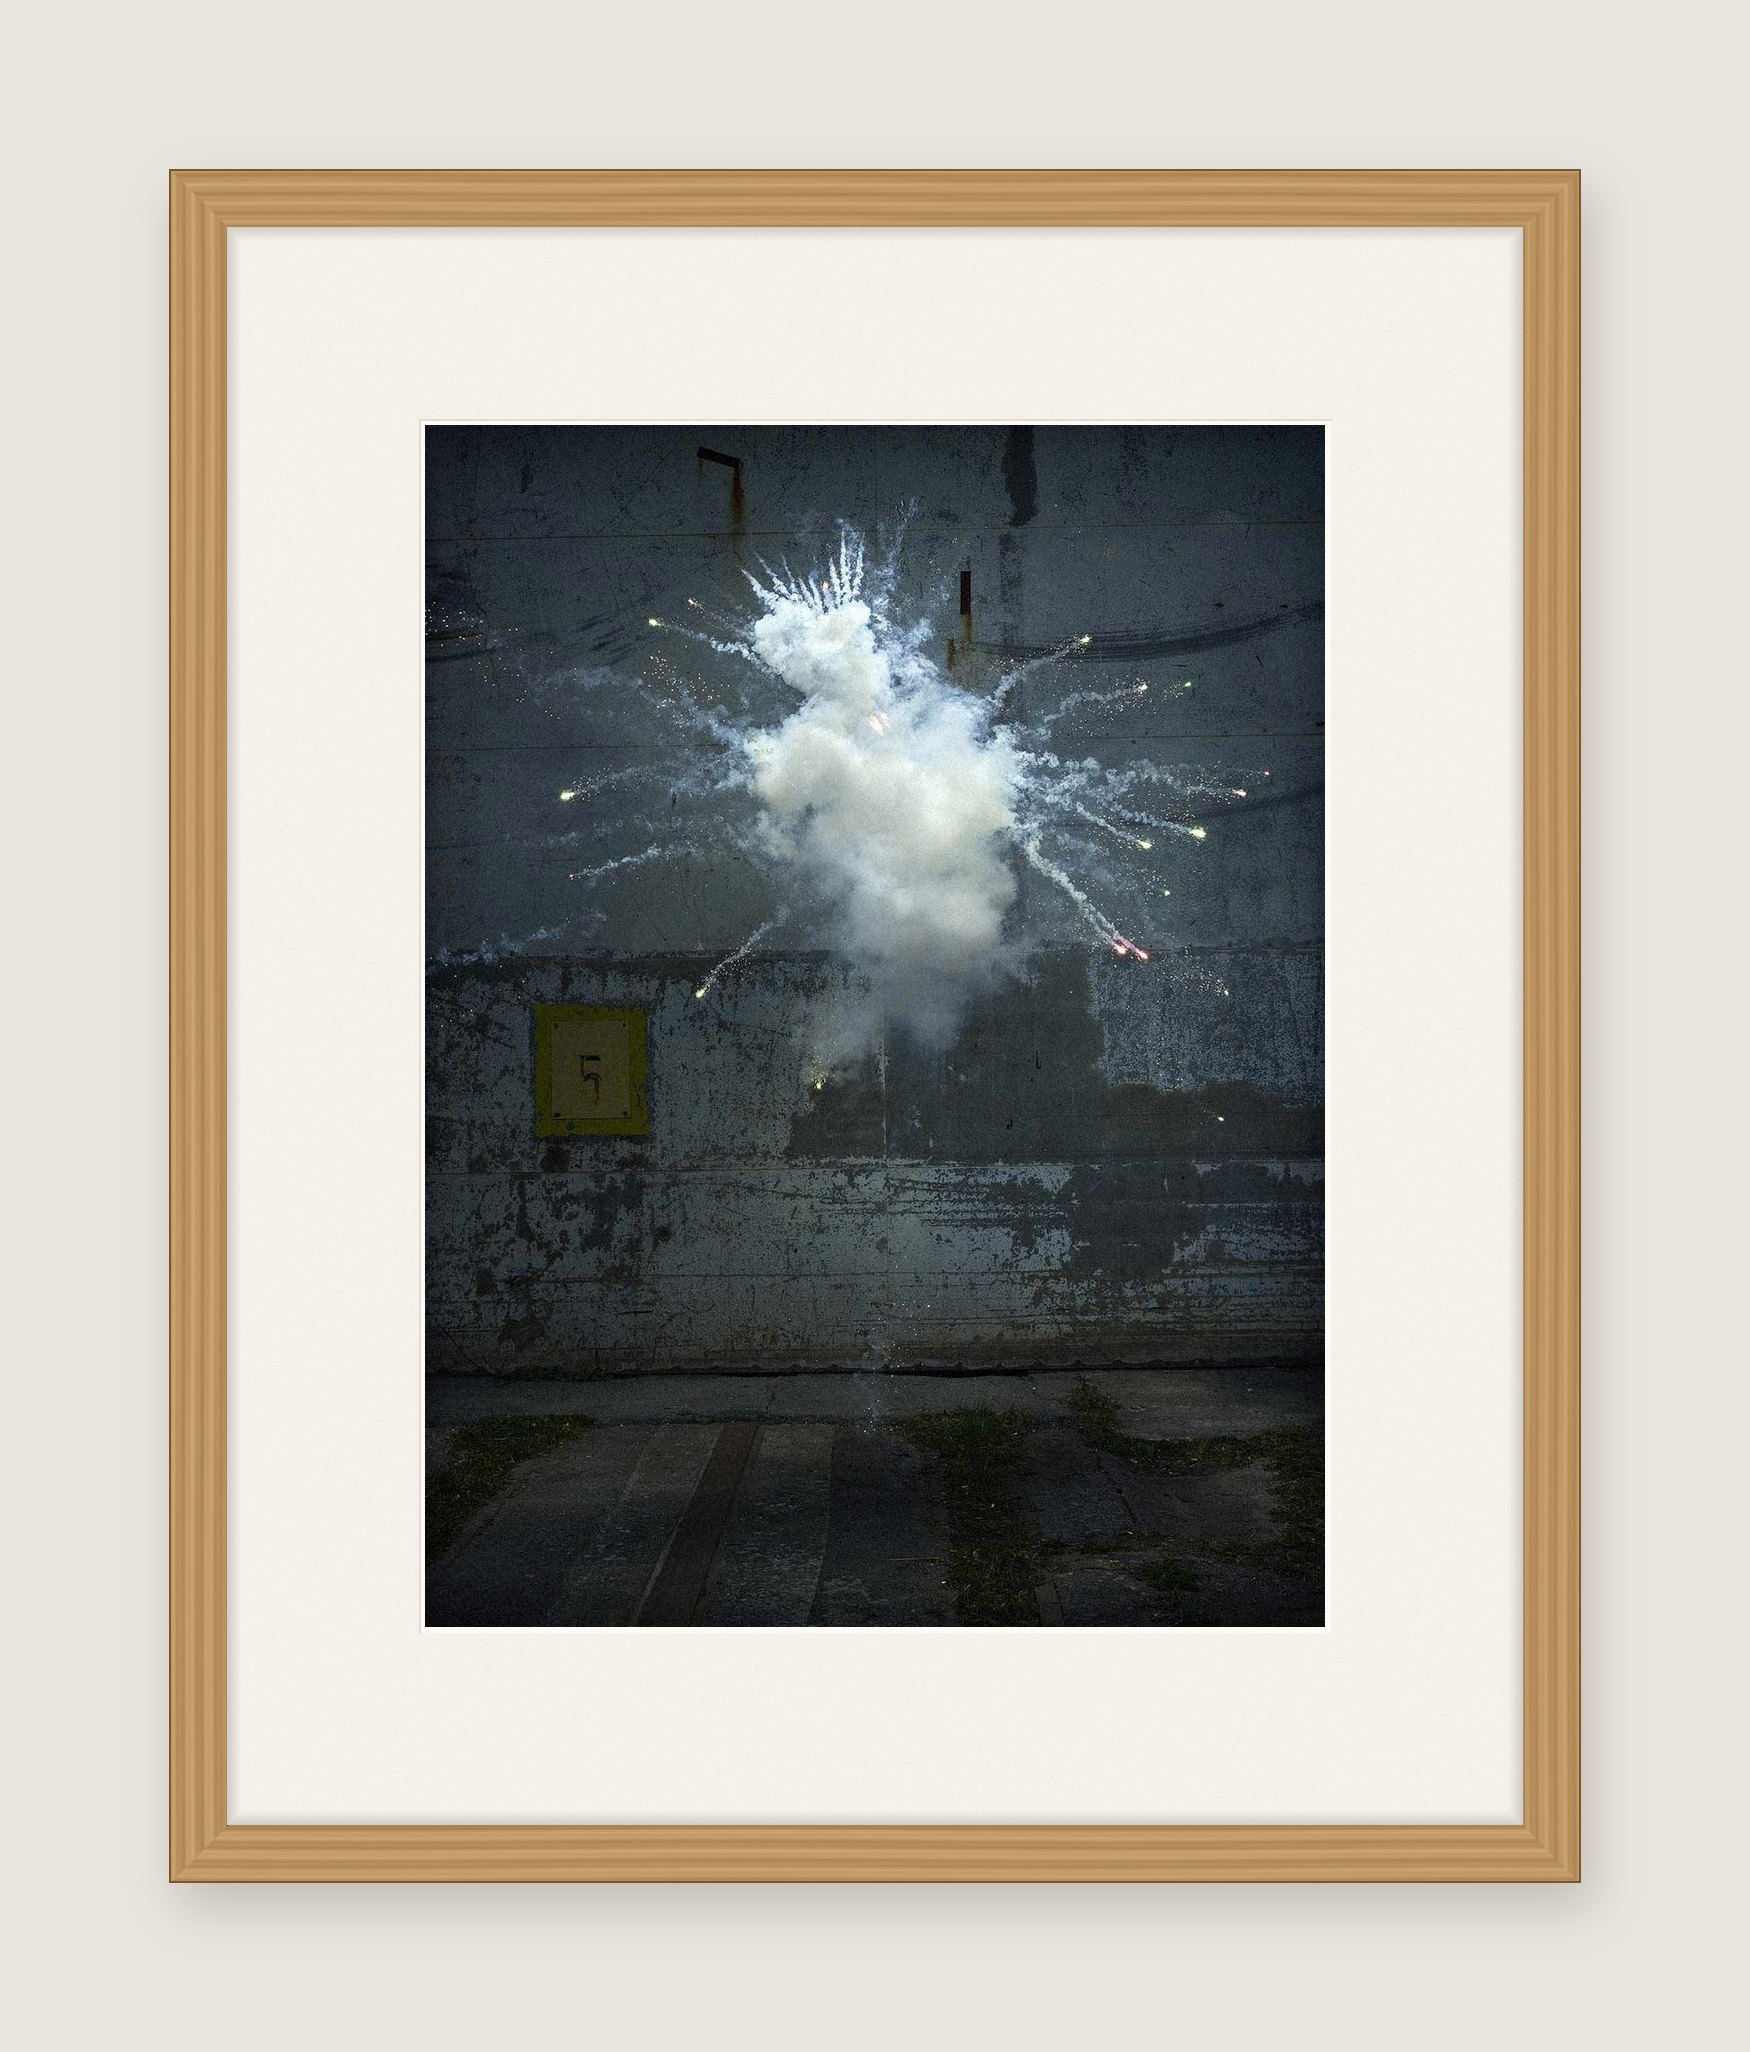
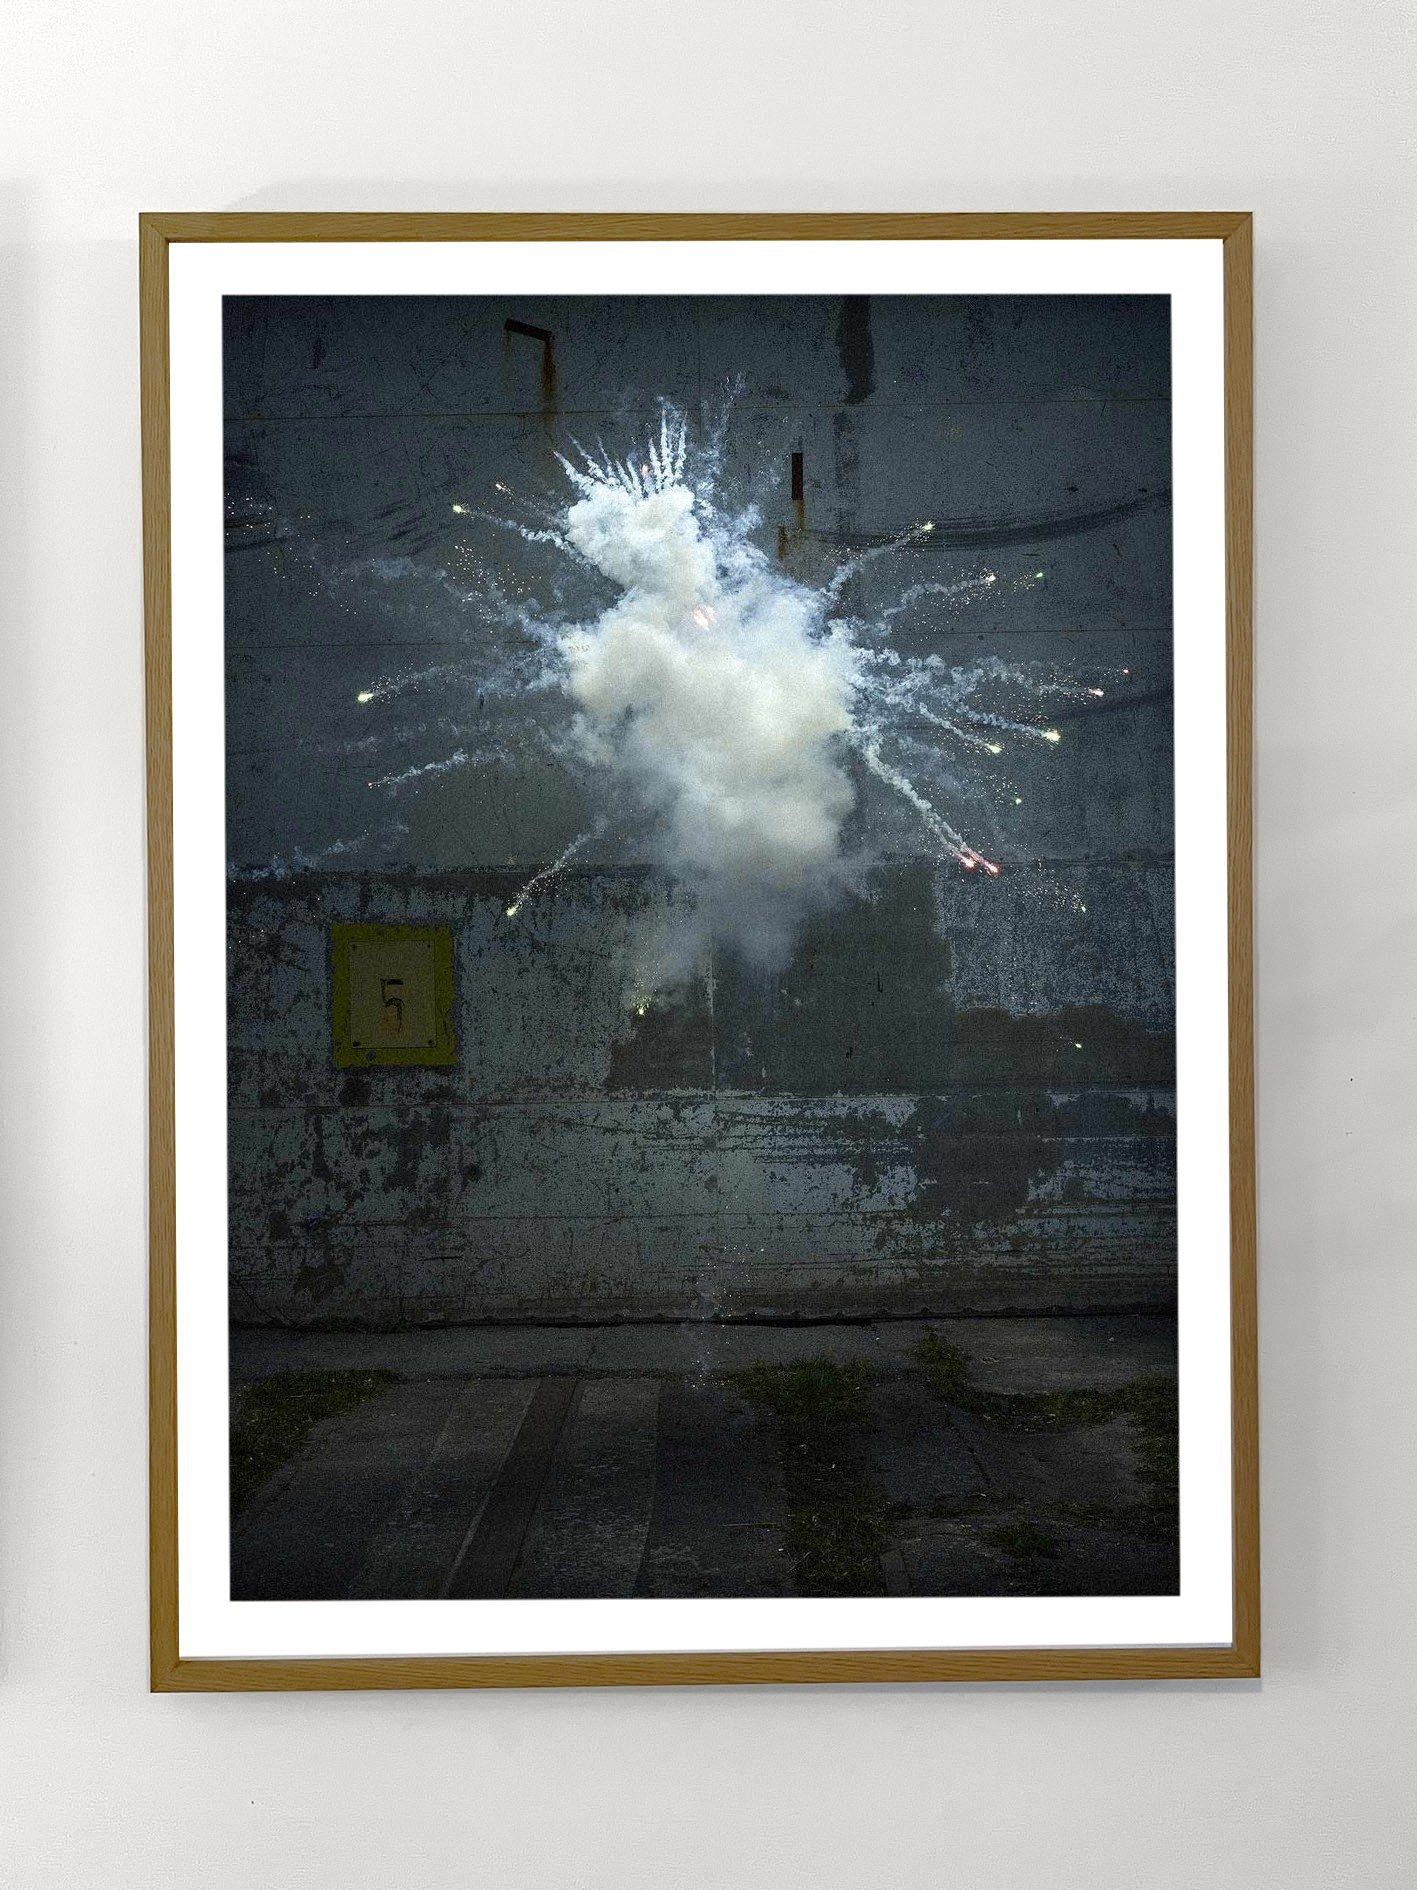
Explosions: real oak frame photo, wall in site frame colour
Claude-Session: https://claude.ai/code/session_011X1zMj85poAPRbW2kCn6k3

diff --git a/public/index.html b/public/index.html
@@ -968,8 +968,8 @@ const prints=[[0,0,[50,10,5]],[0,2,[50,10,5]],[0,3,[50,10,5]],[0,5,[50,10,5]],[0
     return{id:`${pi}-${i}`,pi,title:PRINT_NAMES[`${pi}-${i}`]||`${p.title} No. ${i+1}`,series:p.title,src:p.img(i),land:r>1,left}});
 // Prints that are presented as physical prints on a wall (id: "project-image")
 // Styled photos of a framed print: shown on that print's page, and as cover for its series
-const STYLED={"0-0":"img/prints/flower-men-kulwinder-styled.jpg",[`${projects.findIndex(p=>p.title==="Explosions")}-0`]:"img/prints/explosions-01-oak.jpg"};
-const SERIES_COVER={"Flower Men":"img/prints/flower-men-kulwinder-styled.jpg","Explosions":"img/prints/explosions-01-oak.jpg"};
+const STYLED={"0-0":"img/prints/flower-men-kulwinder-styled.jpg",[`${projects.findIndex(p=>p.title==="Explosions")}-0`]:"img/prints/explosions-01-oak.jpg?v=2"};
+const SERIES_COVER={"Flower Men":"img/prints/flower-men-kulwinder-styled.jpg","Explosions":"img/prints/explosions-01-oak.jpg?v=2"};
 // Thumbnails used only in the Prints dropdown (falls back to SERIES_COVER, then the paper print)
 const MENU_THUMB={"Bökh":"img/prints/bokh-02-room.jpg"};
 const PAPER={"1-9":{wall:"#aeb4a6"},"1-2":{wall:"#aeb4a6"},"1-3":{wall:"#aeb4a6"},"1-6":{wall:"#aeb4a6"},"1-7":{wall:"#aeb4a6"},"1-8":{wall:"#aeb4a6"},"1-12":{wall:"#aeb4a6"},"1-18":{wall:"#aeb4a6"},"1-19":{wall:"#aeb4a6"},"1-20":{wall:"#aeb4a6"},"1-21":{wall:"#aeb4a6"},["2-0"]:{wall:"#aeb4a6"},"0-0":{wall:"#aeb4a6"},"0-1":{wall:"#aeb4a6"},"0-2":{wall:"#aeb4a6"},"0-3":{wall:"#aeb4a6"},"0-4":{wall:"#aeb4a6"},"0-5":{wall:"#aeb4a6"},"0-6":{wall:"#aeb4a6"},"0-7":{wall:"#aeb4a6"},"0-8":{wall:"#aeb4a6"},"0-9":{wall:"#aeb4a6"},"0-10":{wall:"#aeb4a6"},"0-11":{wall:"#aeb4a6"},"1-1":{wall:"#aeb4a6"},"5-0":{wall:"#aeb4a6"},"5-1":{wall:"#aeb4a6"},"5-4":{wall:"#aeb4a6"},"5-5":{wall:"#aeb4a6"},"5-8":{wall:"#aeb4a6"}};
